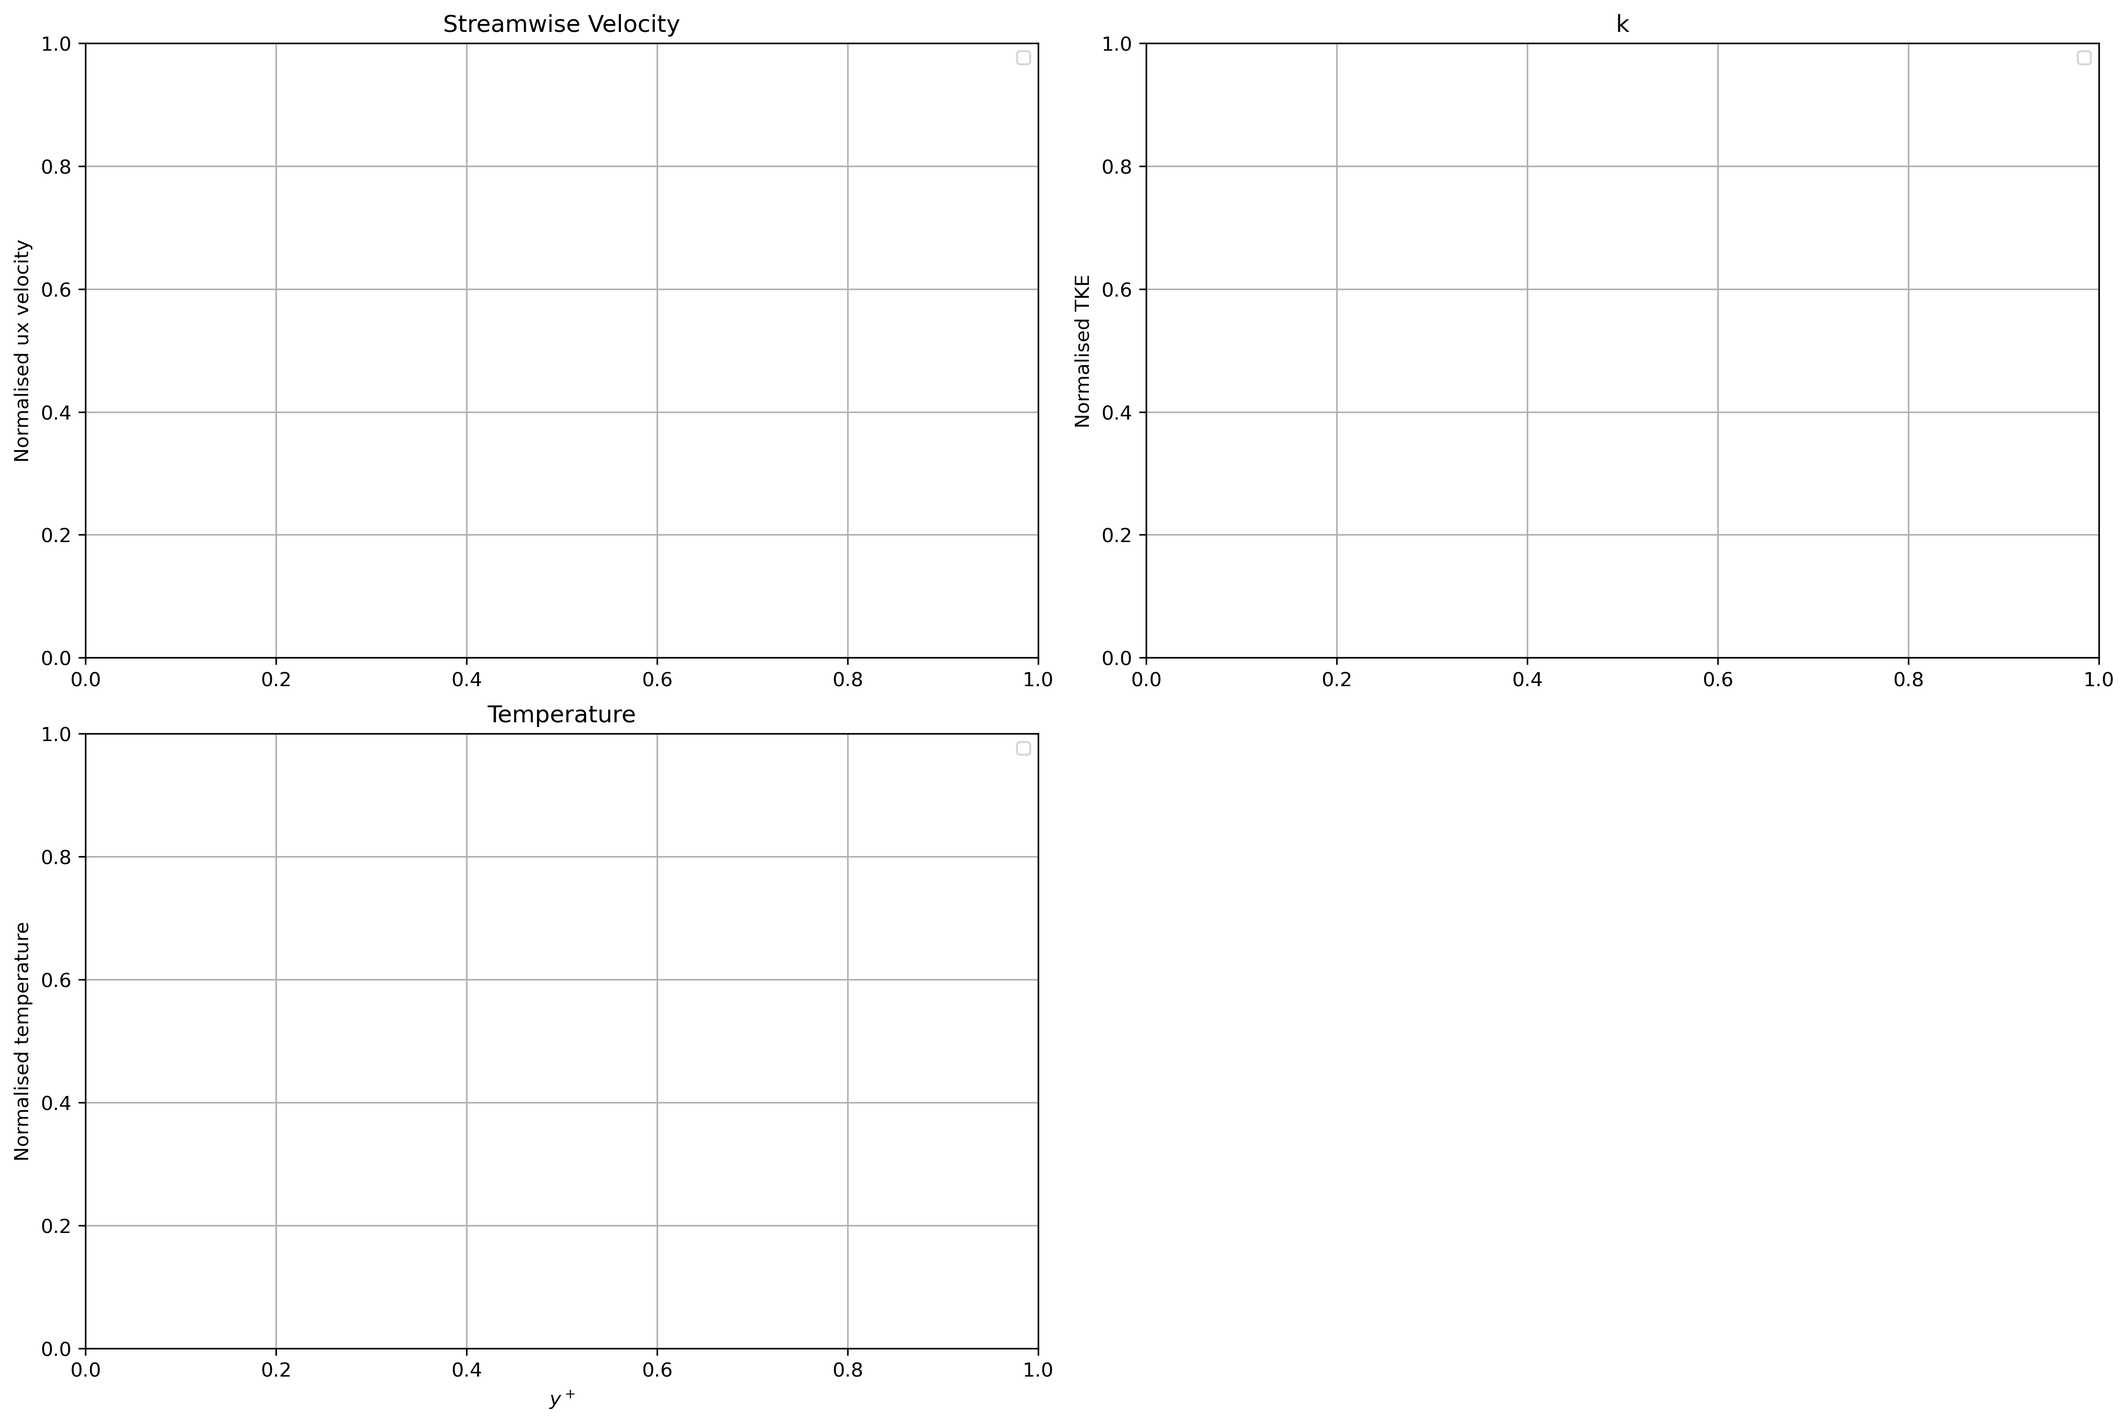
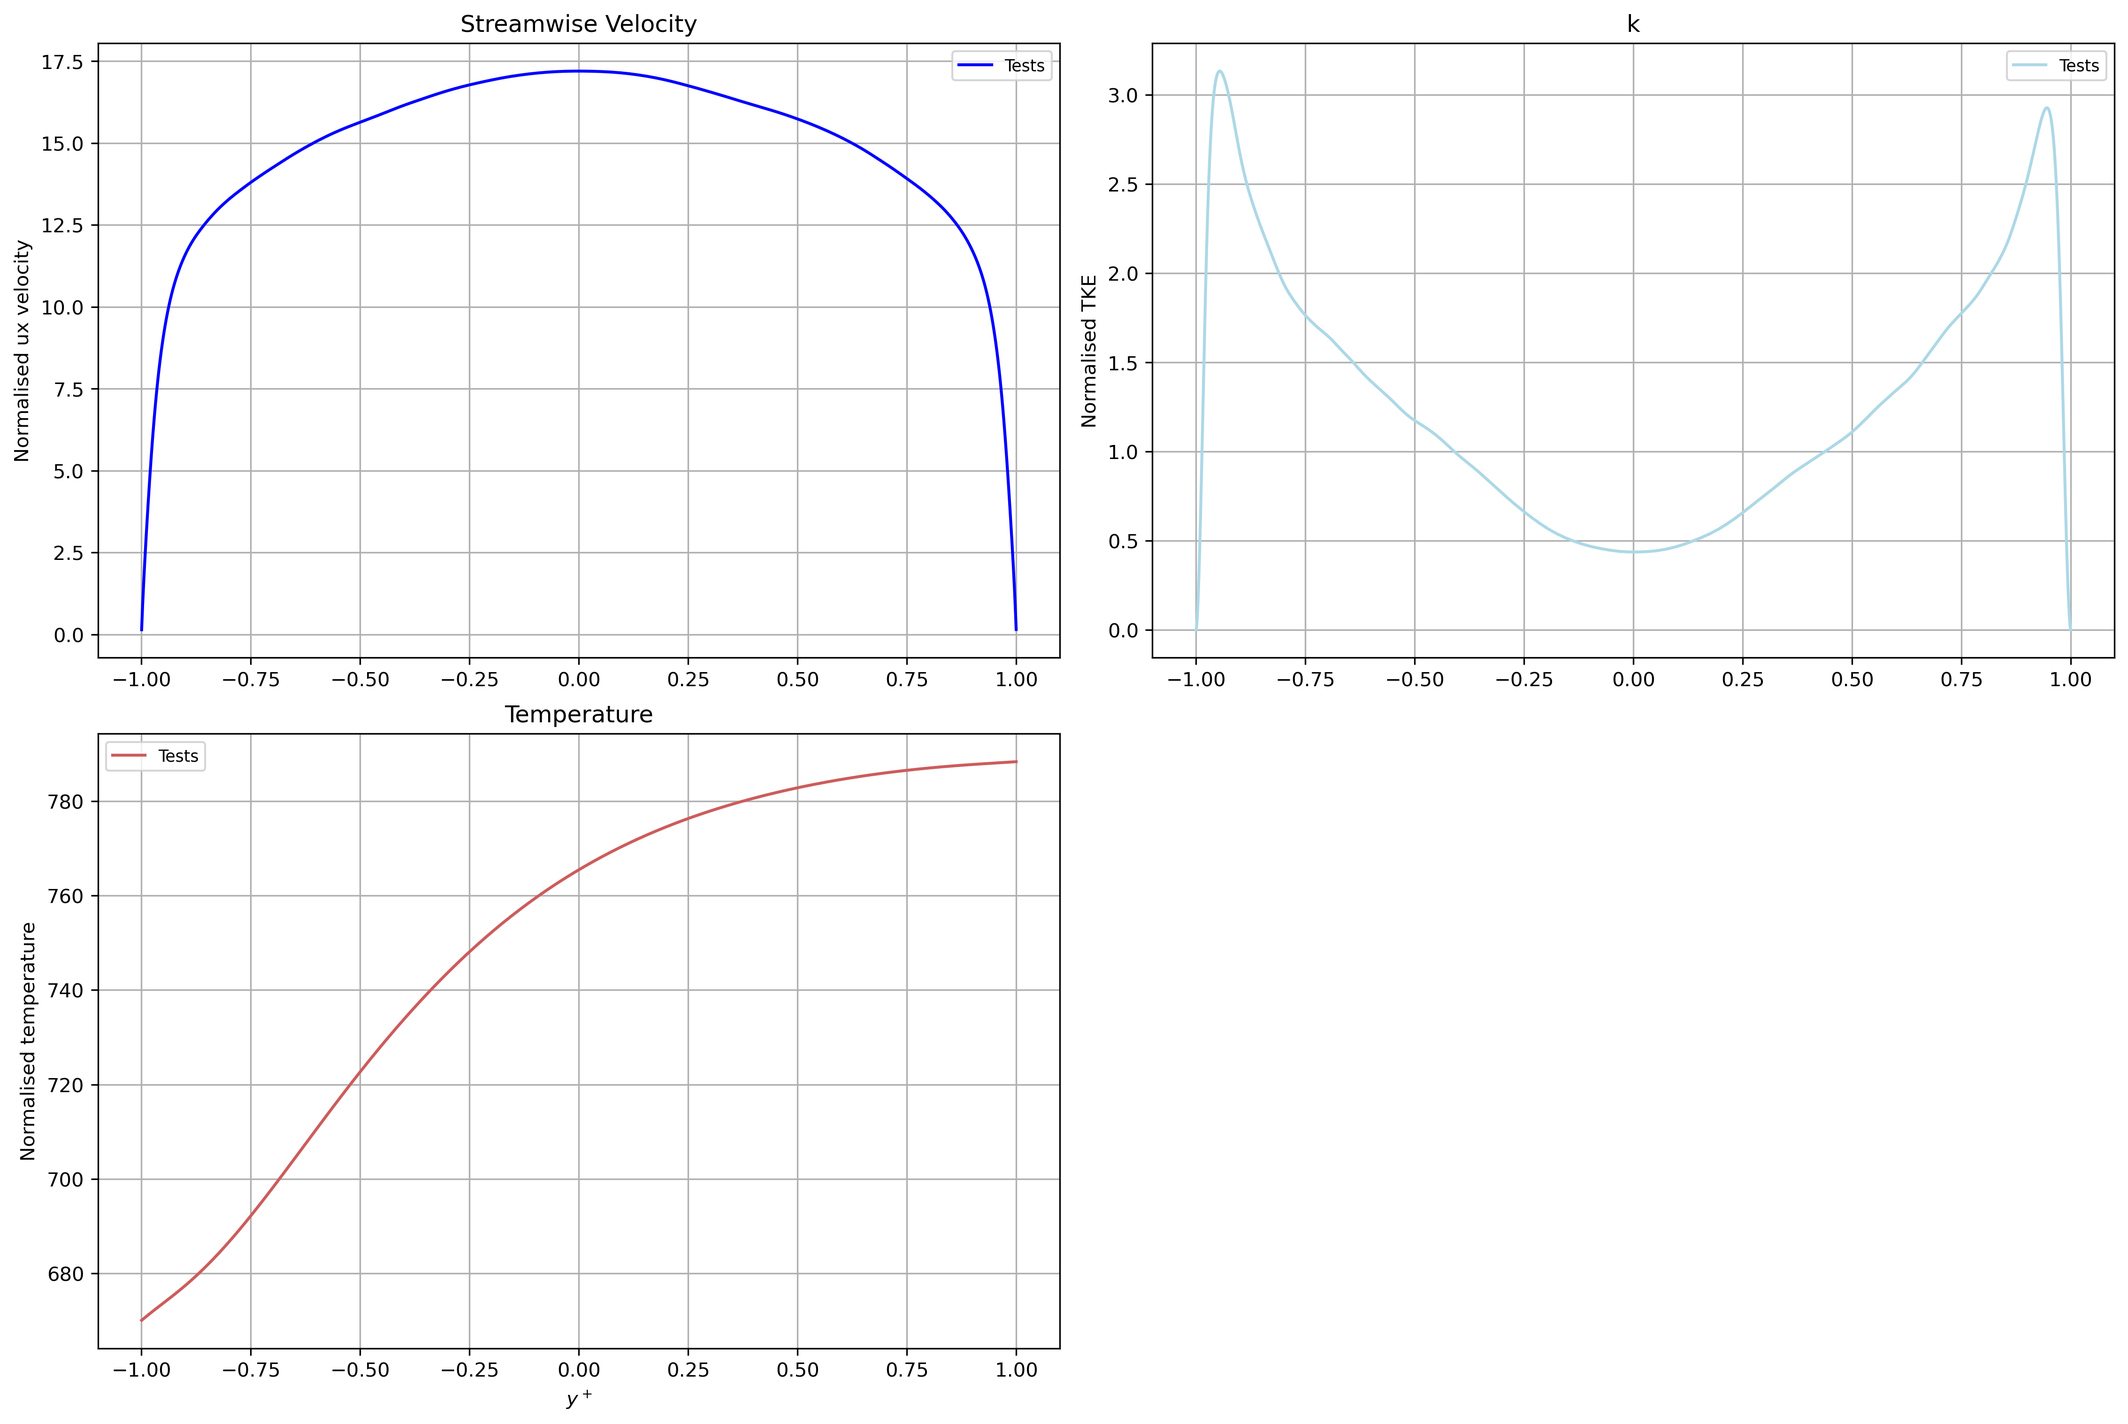
fixed plotting from xdmf for main script, changed xdmf wrapper to only load required files and variables for computation. TKE budget terms still need some work.

diff --git a/turb_stats.py b/turb_stats.py
@@ -205,12 +205,16 @@ class PlotConfig:
 # DATA LOADING & MANAGEMENT
 # =====================================================================================================================================================
 
-def create_data_loader(config: Config):
+def create_data_loader(config: Config, data_types: List[str] = None):
     """
     Factory function to create the appropriate data loader based on input_format.
 
     Args:
         config: Configuration object
+        data_types: List of XDMF data types to load. Only used for XDMF format.
+                    Valid types: 'inst', 't_avg', 'tsp_avg', or specific combinations
+                    like 'tsp_avg_flow', 't_avg_thermo', etc.
+                    Defaults to ['tsp_avg'] for turb_stats (time-space averaged data).
 
     Returns:
         Data loader instance (TurbulenceTextData or TurbulenceXDMFData)
@@ -218,11 +222,15 @@ def create_data_loader(config: Config):
     fmt = config.input_format.lower()
 
     if fmt in ['xdmf', 'visu']:
-        print("Using XDMF data loader...")
+        # Default to tsp_avg for turb_stats which only needs time-space averaged data
+        if data_types is None:
+            data_types = ['tsp_avg']
+        print(f"Using XDMF data loader with data_types={data_types}...")
         return TurbulenceXDMFData(
             config.folder_path,
             config.cases,
-            config.timesteps
+            config.timesteps,
+            data_types=data_types
         )
     elif fmt in ['dat', 'text']:
         print("Using text (.dat) data loader...")
@@ -296,10 +304,11 @@ class TurbulenceTextData:
 class TurbulenceXDMFData:
     """Manages all data from .xdmf files"""
 
-    def __init__(self, folder_path: str, cases: List[str], timesteps: List[str]):
+    def __init__(self, folder_path: str, cases: List[str], timesteps: List[str], data_types: List[str] = None):
         self.folder_path = folder_path
         self.cases = cases
         self.timesteps = timesteps
+        self.data_types = data_types
         # Nested structure: {case_timestep: {variable: array}}
         self.data: Dict[str, Dict[str, np.ndarray]] = {}
         self.grid_info: Dict = {}
@@ -324,17 +333,73 @@ class TurbulenceXDMFData:
             print(f'No .xdmf files found for {case}, {timestep}')
             return
 
-        # Load the XDMF files
-        arrays, grid_info = ut.read_xdmf_extract_numpy_arrays(file_names, case=case, timestep=timestep)
+        # Load the XDMF files (filtered by data_types if specified)
+        arrays, grid_info = ut.xdmf_reader_wrapper(file_names, case=case, timestep=timestep, data_types=self.data_types)
 
         if arrays and key in arrays:
-            self.data[key] = arrays[key]
-
             # Store grid info if not already stored
             if not self.grid_info and grid_info:
                 self.grid_info = grid_info
 
-            print(f"Loaded {len(arrays[key])} variables from XDMF files for {case}, {timestep}")
+            # Convert 3D XDMF arrays to 2D format expected by statistics code
+            # Format: [index, y_coord, value] matching text file format
+            raw_data = arrays[key]
+            converted_data = {}
+
+            # Get y-coordinates from grid info (node coordinates)
+            y_nodes = grid_info.get('grid_y', None) if grid_info else None
+
+            for var_name, var_array in raw_data.items():
+                if var_array.ndim == 3:
+                    # 3D array (z, y, x) - extract y-profile from averaged data
+                    # For tsp_avg data, values are constant along x and z, so take [0, :, 0]
+                    y_profile = var_array[0, :, 0]
+                    n_points = len(y_profile)
+
+                    # Create 2D array with columns [index, y_coord, value]
+                    converted = np.zeros((n_points, 3))
+                    converted[:, 0] = np.arange(n_points)  # Index
+
+                    # Handle y-coordinates: may need cell centers if data is cell-centered
+                    if y_nodes is not None:
+                        if len(y_nodes) == n_points:
+                            # Node-centered data
+                            converted[:, 1] = y_nodes
+                        elif len(y_nodes) == n_points + 1:
+                            # Cell-centered data - compute cell centers
+                            y_centers = 0.5 * (y_nodes[:-1] + y_nodes[1:])
+                            converted[:, 1] = y_centers
+                        else:
+                            # Fallback to linear spacing
+                            converted[:, 1] = np.linspace(-1, 1, n_points)
+                    else:
+                        converted[:, 1] = np.linspace(-1, 1, n_points)  # Default normalized y
+
+                    converted[:, 2] = y_profile  # Values
+                    converted_data[var_name] = converted
+
+                elif var_array.ndim == 1:
+                    # Already 1D - create 2D format
+                    n_points = len(var_array)
+                    converted = np.zeros((n_points, 3))
+                    converted[:, 0] = np.arange(n_points)
+                    if y_nodes is not None:
+                        if len(y_nodes) == n_points:
+                            converted[:, 1] = y_nodes
+                        elif len(y_nodes) == n_points + 1:
+                            converted[:, 1] = 0.5 * (y_nodes[:-1] + y_nodes[1:])
+                        else:
+                            converted[:, 1] = np.linspace(-1, 1, n_points)
+                    else:
+                        converted[:, 1] = np.linspace(-1, 1, n_points)
+                    converted[:, 2] = var_array
+                    converted_data[var_name] = converted
+                else:
+                    # Keep as-is for other dimensions
+                    converted_data[var_name] = var_array
+
+            self.data[key] = converted_data
+            print(f"Loaded {len(converted_data)} variables from XDMF files for {case}, {timestep}")
         else:
             print(f'No arrays extracted from XDMF files for {case}, {timestep}')
 
@@ -1289,8 +1354,9 @@ class TurbulencePlotter:
             filename = f'{base_name}{suffix}.{ext}' if suffix else self.config.plot_name
         else:
             filename = f'turb_stats_plot{suffix}.png' if suffix else 'turb_stats_plot.png'
-        if self.config.save_to_path:
-            fig.savefig(f'{self.config.folder_path}/{filename}',
+        if self.config.save_to_path and self.config.folder_path:
+            save_path = os.path.join(self.config.folder_path, filename)
+            fig.savefig(save_path,
                         dpi=300,
                         bbox_inches='tight',
                         pad_inches=0.1,
@@ -1298,7 +1364,7 @@ class TurbulencePlotter:
                         edgecolor='none',
                         transparent=True,
                         orientation='landscape')
-            print(f'Figure saved to {self.config.folder_path}/{filename}')
+            print(f'Figure saved to {save_path}')
         fig.savefig(f'turb_stats_plots/{filename}',
                    dpi=300,
                    bbox_inches='tight',

diff --git a/utils.py b/utils.py
@@ -2,6 +2,7 @@ import os
 import numpy as np
 import xml.etree.ElementTree as ET
 import mmap
+from tqdm import tqdm
 
 # =====================================================================================================================================================
 # XDMF READING CONFIGURATION
@@ -11,7 +12,7 @@ import mmap
 USE_MMAP_READ = False
 
 # Set to True to load all variables, False to load only required ones (faster)
-LOAD_ALL_VARS = True
+LOAD_ALL_VARS = False
 
 # Variables required for Reynolds stress computation (base names without prefixes)
 _BASE_REQUIRED_VARS = [
@@ -77,7 +78,7 @@ def visu_file_paths(folder_path, case, timestep):
     return file_names
 
 # =====================================================================================================================================================
-# XDMF READING (Pure Python - no VTK dependency)
+# XDMF READING UTILITIES
 # =====================================================================================================================================================
 
 def read_binary_data_item(data_item, xdmf_dir):
@@ -235,9 +236,10 @@ def parse_xdmf_file(xdmf_path, load_all_vars=None, sample_stride=1):
 
         # Read all data items
         if skipped_vars:
-            print(f"  Skipping {len(skipped_vars)} unneeded variables: {', '.join(skipped_vars[:3])}{'...' if len(skipped_vars) > 3 else ''}")
+            tqdm.write(f"  Skipping {len(skipped_vars)} unneeded variables: {', '.join(skipped_vars[:3])}{'...' if len(skipped_vars) > 3 else ''}")
 
-        for task_type, name, data_item in read_tasks:
+        xdmf_name = os.path.basename(xdmf_path)
+        for task_type, name, data_item in tqdm(read_tasks, desc=f"  Reading {xdmf_name}", unit="var", leave=False):
             data = read_binary_data_item(data_item, xdmf_dir)
             if data is not None:
                 # Apply sampling in x and z directions if enabled (dims are typically z, y, x)
@@ -252,7 +254,7 @@ def parse_xdmf_file(xdmf_path, load_all_vars=None, sample_stride=1):
     return arrays, grid_info
 
 
-def read_xdmf_extract_numpy_arrays(file_names, case=None, timestep=None, load_all_vars=None, sample_stride=1):
+def xdmf_reader_wrapper(file_names, case=None, timestep=None, load_all_vars=None, sample_stride=1, data_types=None):
     """
     Reads XDMF files and extracts numpy arrays from binary data.
 
@@ -262,6 +264,13 @@ def read_xdmf_extract_numpy_arrays(file_names, case=None, timestep=None, load_al
         timestep (str, optional): Timestep identifier for dictionary key
         load_all_vars (bool, optional): If True, load all variables. If False, only required ones.
         sample_stride (int): Stride for sampling in x and z directions (1 = no sampling)
+        data_types (list, optional): List of data types to load. If None, loads all files.
+            Valid types: 'inst', 't_avg', 'tsp_avg',
+            or specific combinations like 't_avg_flow', 'tsp_avg_thermo', etc.
+            Examples:
+                - ['tsp_avg'] loads only time-space averaged files (flow, thermo, mhd)
+                - ['inst'] loads all instantaneous files (flow, thermo, mhd)
+                - ['tsp_avg_flow'] loads only time-space averaged flow files
 
     Returns:
         tuple: (visu_arrays_dic dict, grid_info dict)
@@ -294,12 +303,38 @@ def read_xdmf_extract_numpy_arrays(file_names, case=None, timestep=None, load_al
 
     grid_info = {}
 
-    for xdmf_file in file_names:
-        if not os.path.isfile(xdmf_file):
-            continue
+    # Filter to only existing files for accurate progress bar
+    existing_files = [f for f in file_names if os.path.isfile(f)]
 
+    # Filter by data types if specified
+    if data_types is not None:
+        filtered_files = []
+        for f in existing_files:
+            filename = os.path.basename(f)
+            # Check if file matches any of the requested data types
+            for dtype in data_types:
+                if dtype in ['tsp_avg', 't_avg']:
+                    # Match prefix patterns like 'tsp_avg_flow', 'tsp_avg_thermo', 'tsp_avg_mhd'
+                    if f'{dtype}_' in filename:
+                        filtered_files.append(f)
+                        break
+                elif dtype == 'inst':
+                    # Match instantaneous files (flow, thermo, mhd without t_avg or tsp_avg prefix)
+                    if 't_avg' not in filename and 'tsp_avg' not in filename:
+                        filtered_files.append(f)
+                        break
+                else:
+                    # Match specific combinations like 'tsp_avg_flow', 't_avg_thermo'
+                    if dtype in filename:
+                        filtered_files.append(f)
+                        break
+        existing_files = filtered_files
+        if data_types:
+            tqdm.write(f"Filtering for data types: {data_types}")
+
+    for xdmf_file in tqdm(existing_files, desc="Processing XDMF files", unit="file"):
         try:
-            print(f"Opening file: {xdmf_file}")
+            tqdm.write(f"Opening file: {xdmf_file}")
 
             # Parse the XDMF file
             arrays, file_grid_info = parse_xdmf_file(xdmf_file, load_all_vars=load_all_vars, sample_stride=sample_stride)
@@ -321,16 +356,24 @@ def read_xdmf_extract_numpy_arrays(file_names, case=None, timestep=None, load_al
                 if not grid_info and file_grid_info:
                     grid_info = file_grid_info
                     if 'node_dimensions' in grid_info:
-                        print(f"Grid info: node_dimensions={grid_info['node_dimensions']}, cell_dimensions={grid_info.get('cell_dimensions', 'N/A')}")
+                        tqdm.write(f"Grid info: node_dimensions={grid_info['node_dimensions']}, cell_dimensions={grid_info.get('cell_dimensions', 'N/A')}")
 
-                # Add arrays to dictionary
-                inner_dict.update(arrays)
-                print(f"Successfully extracted {len(arrays)} arrays from {file_type} file")
+                # Add arrays to dictionary, stripping averaging prefixes for consistency
+                for var_name, var_data in arrays.items():
+                    # Strip tsp_avg_ or t_avg_ prefix so statistics code can use base names
+                    if var_name.startswith('tsp_avg_'):
+                        base_name = var_name[8:]  # Remove 'tsp_avg_'
+                    elif var_name.startswith('t_avg_'):
+                        base_name = var_name[6:]  # Remove 't_avg_'
+                    else:
+                        base_name = var_name
+                    inner_dict[base_name] = var_data
+                tqdm.write(f"Successfully extracted {len(arrays)} arrays from {file_type} file")
             else:
-                print(f"Warning: No valid output from {xdmf_file}, file missing or empty")
+                tqdm.write(f"Warning: No valid output from {xdmf_file}, file missing or empty")
 
         except Exception as e:
-            print(f"Error processing {xdmf_file}: {str(e)}")
+            tqdm.write(f"Error processing {xdmf_file}: {str(e)}")
             continue
 
     return visu_arrays_dic, grid_info

diff --git a/config.py b/config.py
@@ -4,13 +4,13 @@
 
 # format: folder_path/case/1_data/quantity_timestep.dat
 #folder_path = '/home/alex/sim_results/mhd_channel_validation/CPG/'
-folder_path = '/home/alex/sim_results/elev_modes/'
+folder_path = ''
 input_format = 'visu' # 'text' (.dat) or 'visu' (.xdmf)
-cases = ['isothermal_base_cases'] # case names must match folder names exactly
-timesteps = ['100000']
+cases = ['Tests'] # case names must match folder names exactly
+timesteps = ['680000']
 
-thermo_on = False
-mhd_on = False
+thermo_on = True    
+mhd_on = True
 
 forcing = 'CMF' # 'CMF' or 'CPG'
 Re = [5000] # indexing matches 'cases' if different Re used for different cases. Use bulk reference value for CPG.
@@ -30,13 +30,13 @@ w_prime_sq_on = True
 v_prime_sq_on = True
 
 # TKE Budget terms
-tke_budget_on = False
-tke_production_on = False
-tke_dissipation_on = False
-tke_convection_on = False
-tke_viscous_diffusion_on = False
-tke_pressure_transport_on = False
-tke_turbulent_diffusion_on = False
+tke_budget_on = True
+tke_production_on = True
+tke_dissipation_on = True
+tke_convection_on = True
+tke_viscous_diffusion_on = True
+tke_pressure_transport_on = True
+tke_turbulent_diffusion_on = True
 
 # Processing options ----------------------------------------------------------------------------------------------------------------------------------
 

diff --git a/slice.py b/slice.py
@@ -5,3 +5,20 @@ import math
 import os
 import tqdm
 
+# ===================================================================================================================================================
+
+# Interactive configuration prompts
+
+# pick variable to plot
+
+# pick instantaneous or time-averaged data
+
+# pick timestep
+
+# pick slice plane and location (dimensional or plus units)
+
+# pick colormap and scaling
+
+# define save path or leave blank for current directory
+
+# ====================================================================================================================================================
